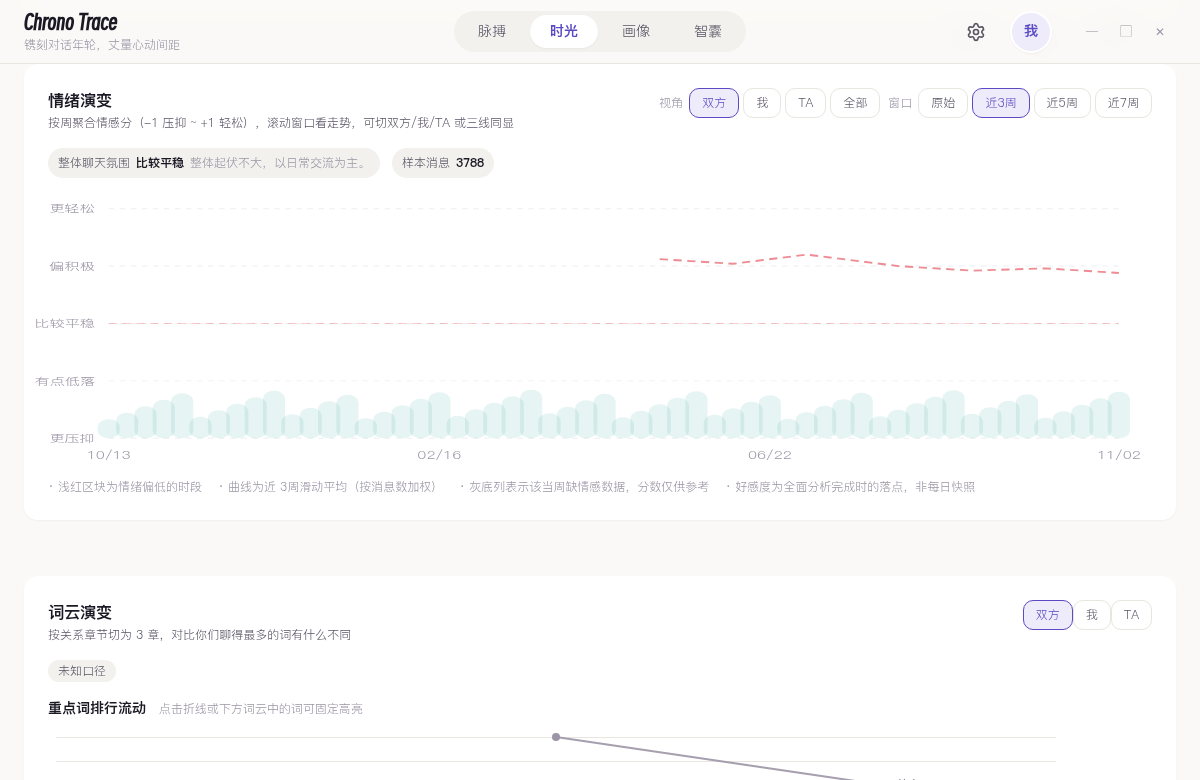
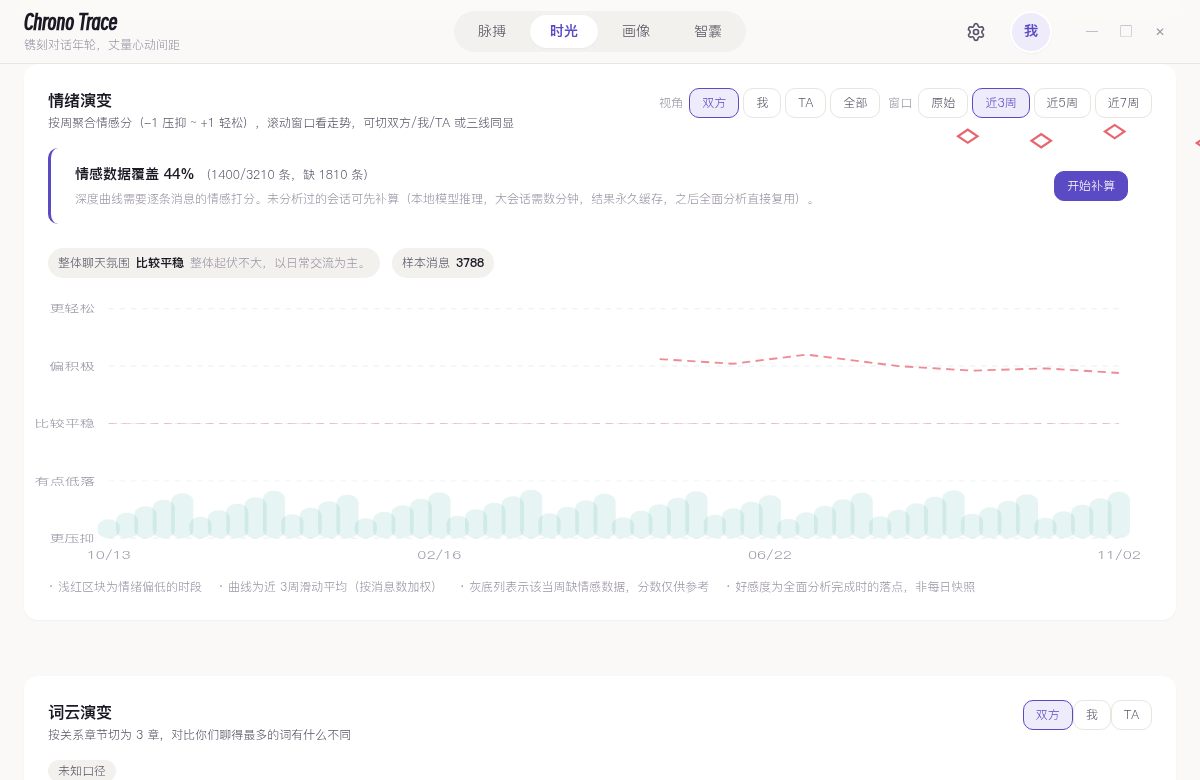
fix：情感补算入口迁回时光页情绪面板（模型换代清缓存后就地补算）

diff --git a/frontend/src/components/deep/DeepEmotionPanel.vue b/frontend/src/components/deep/DeepEmotionPanel.vue
@@ -35,6 +35,12 @@
 
     <div v-if="!buckets.length" class="empty-state">所选区间暂无消息</div>
     <template v-else>
+      <!-- 情感覆盖缺口提示条（灰底列的成因）：模型换代清缓存或未分析过 → 就地补算 -->
+      <SentimentCoverageBar
+        v-if="conversationId"
+        :conversation-id="conversationId"
+        @backfilled="$emit('backfilled')"
+      />
       <EmotionLineChart
         :timeseries="smoothedBuckets"
         :perspective="perspective"
@@ -52,6 +58,7 @@
 <script setup lang="ts">
 import { computed, ref } from 'vue'
 import EmotionLineChart from '@/components/charts/EmotionLineChart.vue'
+import SentimentCoverageBar from '@/components/deep/SentimentCoverageBar.vue'
 import { toLocalDateKey } from '@/utils/datetime'
 
 type Bucket = {
@@ -78,7 +85,10 @@ const props = defineProps<{
   buckets: Bucket[]
   granularity: string
   affinity: AffinityHistory
+  conversationId?: number
 }>()
+
+const emit = defineEmits<{ (e: 'backfilled'): void }>()
 
 const perspective = ref<'combined' | 'me' | 'other' | 'all'>('combined')
 const perspectiveOptions = [

diff --git a/frontend/src/views/Timeline.vue b/frontend/src/views/Timeline.vue
@@ -93,6 +93,8 @@
           :buckets="deepPayload.buckets || []"
           granularity="week"
           :affinity="deepPayload.affinity_history || null"
+          :conversation-id="selectedConversationId || undefined"
+          @backfilled="loadDeep()"
         />
       </div>
 
